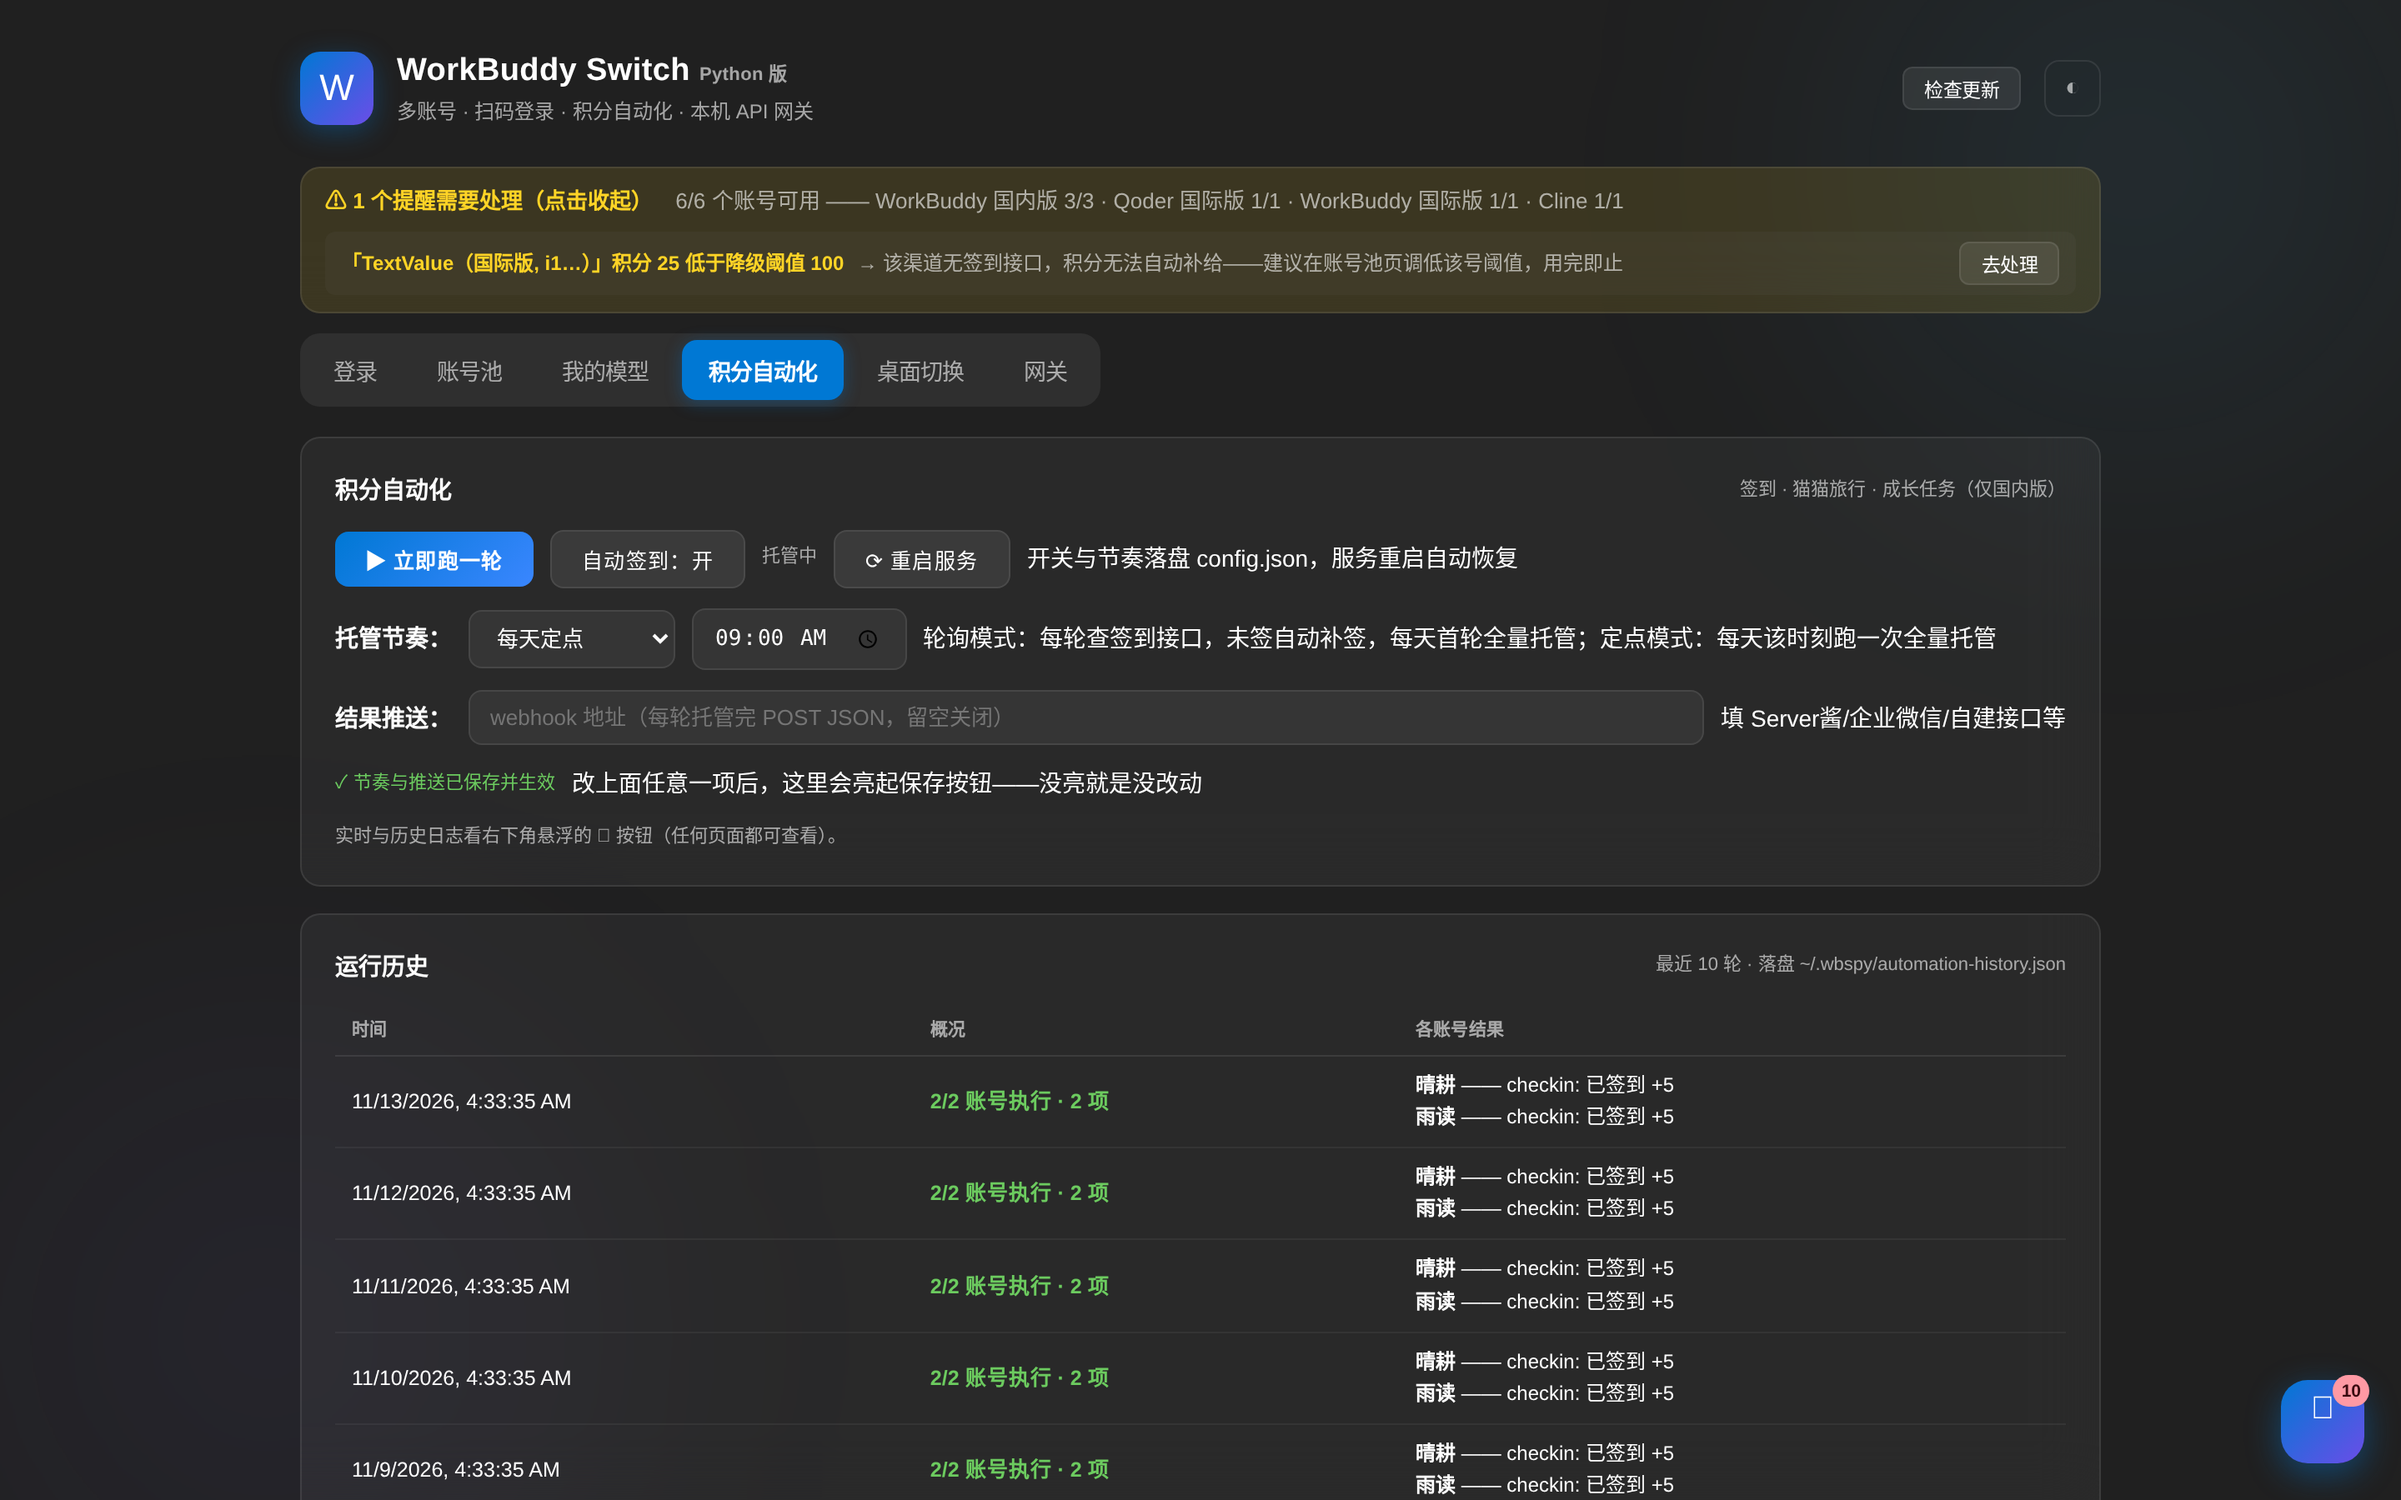
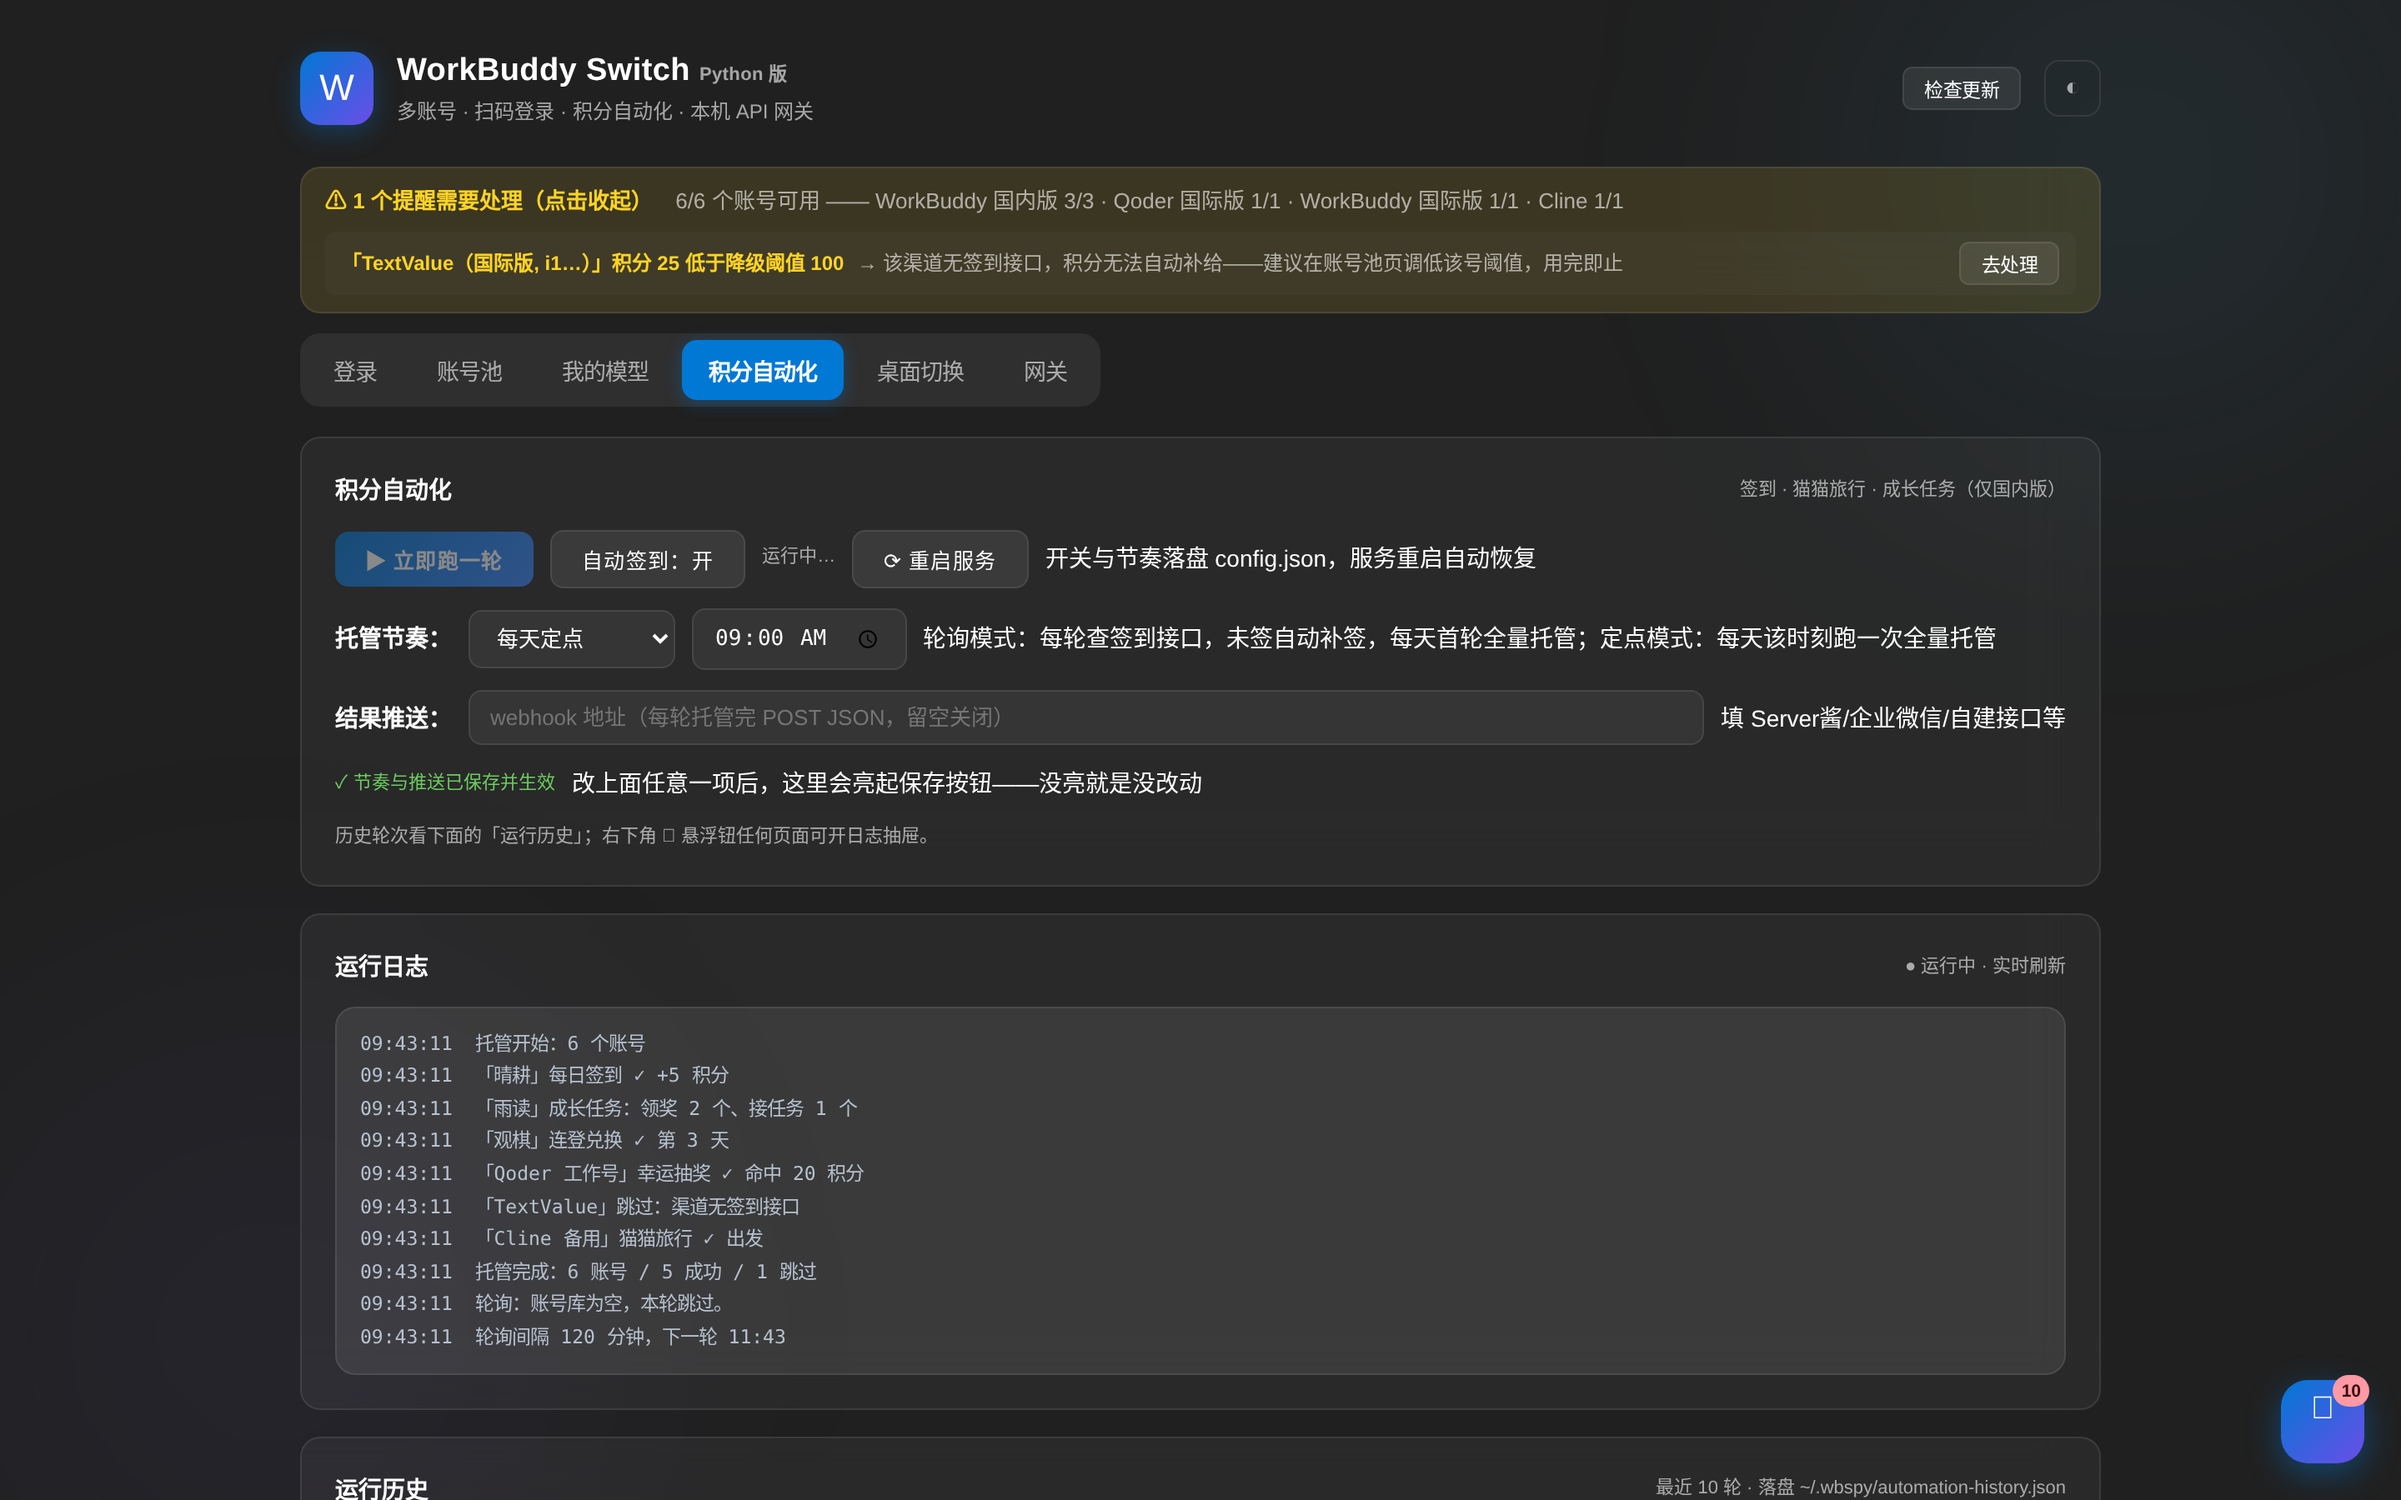
v0.2.30: 积分自动化日志实时化——页面内嵌日志主体 + 抽屉实时标签 2s 轮询（签名去重、贴底跟随）

diff --git a/wbspy/static/index.html b/wbspy/static/index.html
@@ -379,7 +379,13 @@ th{text-transform:uppercase;font-size:10.5px;letter-spacing:.6px}
         <span class="pill" id="pollCleanTag" style="color:var(--ok)">✓ 节奏与推送已保存并生效</span>
         <span class="tag">改上面任意一项后，这里会亮起保存按钮——没亮就是没改动</span>
       </div>
-      <div class="pill">实时与历史日志看右下角悬浮的 📜 按钮（任何页面都可查看）。</div>
+      <div class="pill">历史轮次看下面的「运行历史」；右下角 📜 悬浮钮任何页面可开日志抽屉。</div>
+    </div>
+    <div class="card">
+      <h2>运行日志 <span class="tag" id="autoLogTag">实时刷新 · 最近 60 行</span></h2>
+      <pre id="autoLogBox" style="max-height:340px;overflow:auto;background:var(--panel-2);
+        border:1px solid var(--line);border-radius:var(--r);padding:12px 14px;margin:0;
+        color:var(--log-fg);font:11.5px/1.7 ui-monospace,Consolas,monospace;white-space:pre-wrap">暂无日志。</pre>
     </div>
     <div class="card">
       <h2>运行历史 <span class="tag">最近 10 轮 · 落盘 ~/.wbspy/automation-history.json</span></h2>
@@ -993,16 +999,34 @@ async function pollAuto() {
   $('#autoHistEmpty').hidden = hist.length > 0;
   $('#autoHistTable').style.display = hist.length ? '' : 'none';
   $('#autoHistTable tbody').innerHTML = histRowsHtml(hist);
+  // 日志主体实时刷新：内容签名没变就跳过重绘，贴底跟随手动上翻
+  const lb = $('#autoLogBox');
+  if (lb) {
+    const lines = r.data.log || [];
+    const txt = lines.join('\n') || '暂无日志。';
+    $('#autoLogTag').textContent = r.data.running ? '● 运行中 · 实时刷新' : '实时刷新 · 最近 60 行';
+    if (lb.textContent !== txt) {
+      const stick = lb.scrollHeight - lb.scrollTop - lb.clientHeight < 40;
+      lb.textContent = txt;
+      if (stick) lb.scrollTop = lb.scrollHeight;
+    }
+  }
   if ($('#tab-auto').hidden === false) setTimeout(pollAuto, 2500);
 }
 
 // -- 全局日志抽屉（右下角悬浮按钮，任何页面可看实时与历史日志） --
 let logDrawerOpen = false, logSeenTotal = 0, logTabCur = 'live';
+let _liveTimer = null, _liveSig = '';
+function livePoll(on) {
+  if (on && !_liveTimer) _liveTimer = setInterval(loadLogDrawer, 2000);
+  else if (!on && _liveTimer) { clearInterval(_liveTimer); _liveTimer = null; }
+}
 function toggleLogDrawer(force) {
   logDrawerOpen = force !== undefined ? force : !logDrawerOpen;
   $('#logDrawer').classList.toggle('on', logDrawerOpen);
   $('#logDrawerBg').classList.toggle('on', logDrawerOpen);
   dbgPoll(logDrawerOpen && logTabCur === 'debug');   // 关抽屉即停轮询
+  livePoll(logDrawerOpen && logTabCur === 'live');   // 实时日志：抽屉开着就持续刷新
   if (logDrawerOpen) loadLogDrawer();
 }
 function logTab(t) {
@@ -1013,6 +1037,7 @@ function logTab(t) {
   $('#ldHist').hidden = t !== 'hist';
   $('#ldDebug').hidden = t !== 'debug';
   dbgPoll(t === 'debug');                    // 调试标签激活期间自动刷新
+  livePoll(logDrawerOpen && t === 'live');   // 切回实时标签恢复轮询
   if (t === 'hist') loadHistToDrawer();
   if (t === 'debug') loadDebugToDrawer();
 }
@@ -1024,8 +1049,14 @@ async function loadLogDrawer() {
   $('#logCount').textContent = logSeenTotal ? `累计 ${logSeenTotal} 行` : '';
   if (logTabCur === 'live') {
     const el = $('#ldLive');
-    el.textContent = (r.data.log || []).join('\n') || '暂无日志。';
-    el.scrollTop = el.scrollHeight;
+    const log = r.data.log || [];
+    const last = log.length ? log[log.length - 1] : '';
+    const sig = logSeenTotal + '|' + log.length + '|' + last;
+    if (sig === _liveSig) return;            // 内容没变：跳过重绘
+    _liveSig = sig;
+    const stick = el.scrollHeight - el.scrollTop - el.clientHeight < 40;
+    el.textContent = log.join('\n') || '暂无日志。';
+    if (stick) el.scrollTop = el.scrollHeight;
   }
 }
 async function loadHistToDrawer() {

diff --git a/CHANGELOG.md b/CHANGELOG.md
@@ -2,6 +2,11 @@
 
 全部 notable 变更按版本倒序记录。格式参考 [Keep a Changelog](https://keepachangelog.com/zh-CN/1.1.0/)。
 
+## [0.2.30] — 2026-11-15
+
+### 修复
+- **积分自动化日志实时化**。此前「实时」名不副实：积分自动化页面根本没有日志主体（只有一行「看右下角 📜 按钮」的提示），而日志抽屉的「实时日志」标签只在打开瞬间拉取一次，之后不再刷新——托管跑起来时日志一动不动，关掉再开才能看到新内容。本次修复：① 积分自动化页内嵌「运行日志」卡片（等宽字体、最近 60 行、贴底跟随、内容签名去重不闪屏，运行中时标签切换为「● 运行中 · 实时刷新」）；② 日志抽屉「实时日志」标签加 2 秒轮询（抽屉开着就持续拉取，切走/关闭即停，签名比对跳过无变化重绘，保留手动上翻不受打扰）。轮询复用页面已有的 2.5 秒状态轮询与 `/api/automation/status` 已返回但此前被丢弃的 log 字段，后端零改动。
+
 ## [0.2.29] — 2026-11-08
 
 ### 修复
